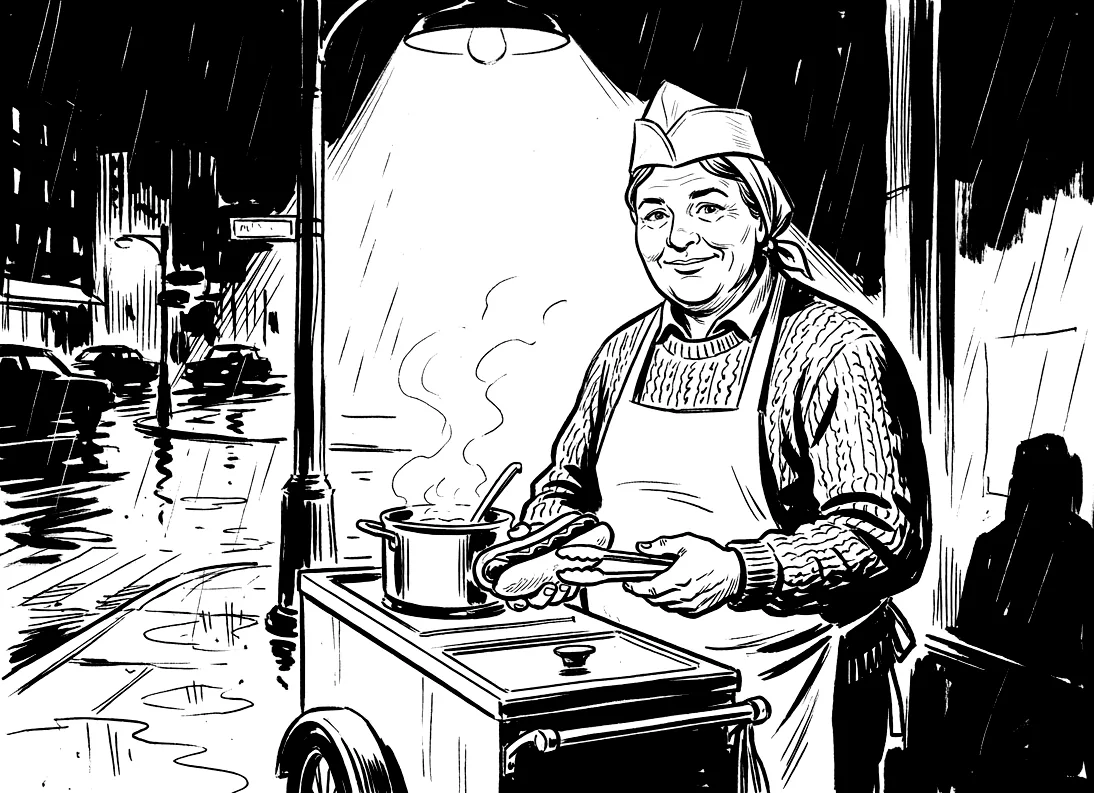
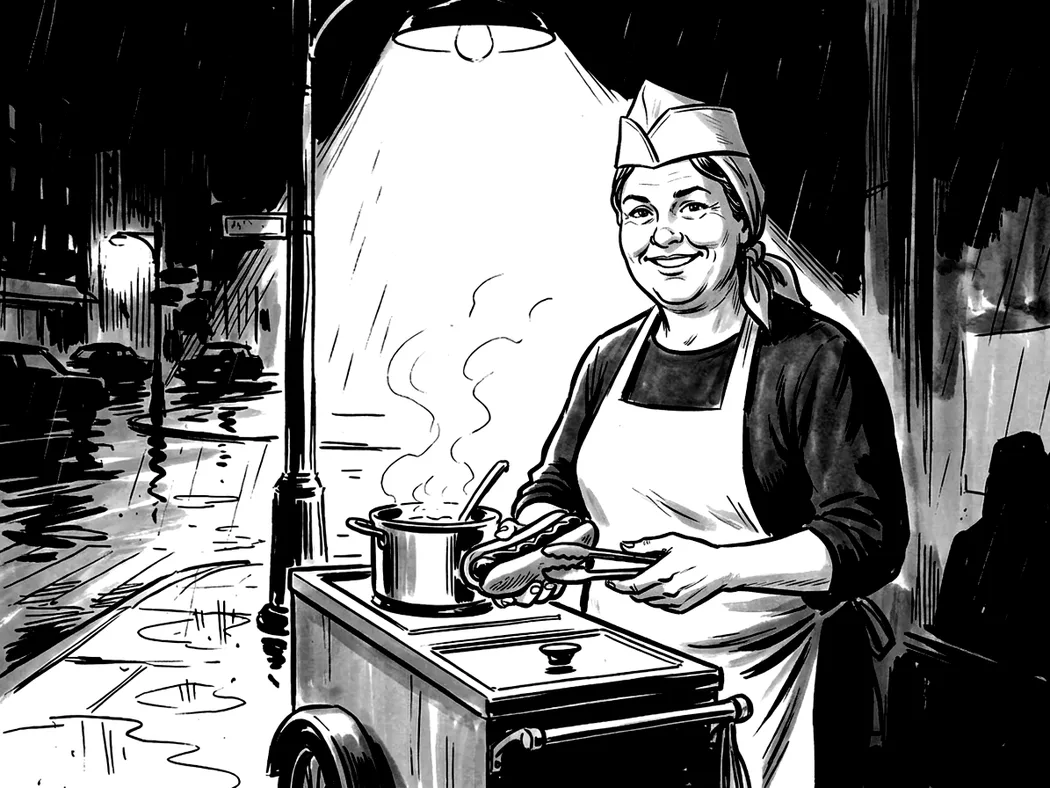
Byt korvgubbens och fönstertittarens rollbilder
Nya bilder med de justerade prompterna. Fönstertittaren ses nu utifrån
genom rutan och korvgumman har sjaletten knuten i nacken (Jonas 2026-11-15).

Claude-Session: https://claude.ai/code/session_01X82C4AptUEE9LHKngPSzUq

diff --git a/src/scenes/sceneImages.js b/src/scenes/sceneImages.js
@@ -100,11 +100,11 @@ export const SCENE_IMAGES = /** @type {const} */ ({
   roleCitizenMan: { src: roleCitizenMan, alt: 'En man i keps och rock står vid sin ytterdörr i regnet med handen på dörrknoppen och ser oroligt åt sidan.', position: '45% 30%' },
   roleTaxiDriverWoman: { src: roleTaxiDriverWoman, alt: 'En taxichaufför i skärmmössa och skinnjacka lutar sig ut genom fönstret på en taxi en regnig natt utanför ett hotell.', position: '100% 30%' },
   roleTaxiDriverMan: { src: roleTaxiDriverMan, alt: 'En taxichaufför i keps med en cigarett i munnen lutar sig ut genom bilrutan en regnig natt utanför ett hotell.', position: '85% 30%' },
-  roleWindowWatcherWoman: { src: roleWindowWatcherWoman, alt: 'En kvinna i morgonrock och papiljotter drar undan en spetsgardin och spanar ut i mörkret.', position: '100% 30%' },
-  roleWindowWatcherMan: { src: roleWindowWatcherMan, alt: 'En äldre man med glasögonen uppskjutna i pannan och en kikare i handen drar undan en spetsgardin och spanar ut i mörkret.', position: '100% 30%' },
+  roleWindowWatcherWoman: { src: roleWindowWatcherWoman, alt: 'En kvinna i morgonrock och papiljotter håller undan gardinen och tittar ut genom sitt fönster mot oss.', position: '75% 30%' },
+  roleWindowWatcherMan: { src: roleWindowWatcherMan, alt: 'En äldre man med glasögonen uppskjutna i pannan och en kikare i handen håller undan gardinen och tittar ut genom sitt fönster mot oss.', position: '75% 30%' },
   roleBartenderWoman: { src: roleBartenderWoman, alt: 'En bartender i väst och fluga ställer fram en cocktail på bardisken, med flaskor bakom sig.', position: '100% 30%' },
   roleBartenderMan: { src: roleBartenderMan, alt: 'En bartender i väst och fluga torkar ett glas bakom bardisken, med flaskor bakom sig.', position: '100% 30%' },
-  roleSausageVendorWoman: { src: roleSausageVendorWoman, alt: 'En korvgumma i pappersmössa räcker fram en korv med en tång vid sin korvvagn i regnet.', position: '100% 30%' },
+  roleSausageVendorWoman: { src: roleSausageVendorWoman, alt: 'En korvgumma i pappersmössa och sjalett räcker fram en korv med en tång vid sin korvvagn i regnet.', position: '100% 30%' },
   roleSausageVendorMan: { src: roleSausageVendorMan, alt: 'En korvgubbe med mustasch och pappersmössa räcker fram en korv med en tång vid sin korvvagn i regnet.', position: '100% 30%' },
   roleGodfatherWoman: { src: roleGodfatherWoman, alt: 'En äldre kvinna med pärlhalsband sitter med hopknäppta händer bakom ett skrivbord i persiennernas skugga.', position: '90% 30%' },
   roleGodfatherMan: { src: roleGodfatherMan, alt: 'En äldre man i mörk kostym sitter med hopknäppta händer bakom ett skrivbord i persiennernas skugga.', position: '90% 30%' },

diff --git a/docs/bildsmak.md b/docs/bildsmak.md
@@ -329,6 +329,11 @@ en regel.
   försök vid köksbordet var "inte bra". Kvinnan blev rätt på första försöket
   med mannens bild som referens ("Toppen!"). Slutsatserna står under "Undvik
   i prompter" i `docs/bilder-och-prompter.md`.
+- 2026-11-15, `roll-korvgubbe-*` och `roll-fonstertittare-*` gjorda med de
+  justerade prompterna. Korvgumman blev "sämre" första gången:
+  "schaletten borde vara knuten i nacken som på den gamla bilden".
+  Fönstertittaren var bra men skulle "stå på insidan av fönstret och titta
+  ut", så båda ses nu utifrån genom rutan ("Mycket bra", "Perfekt").
 
 ## Bilder att byta
 
